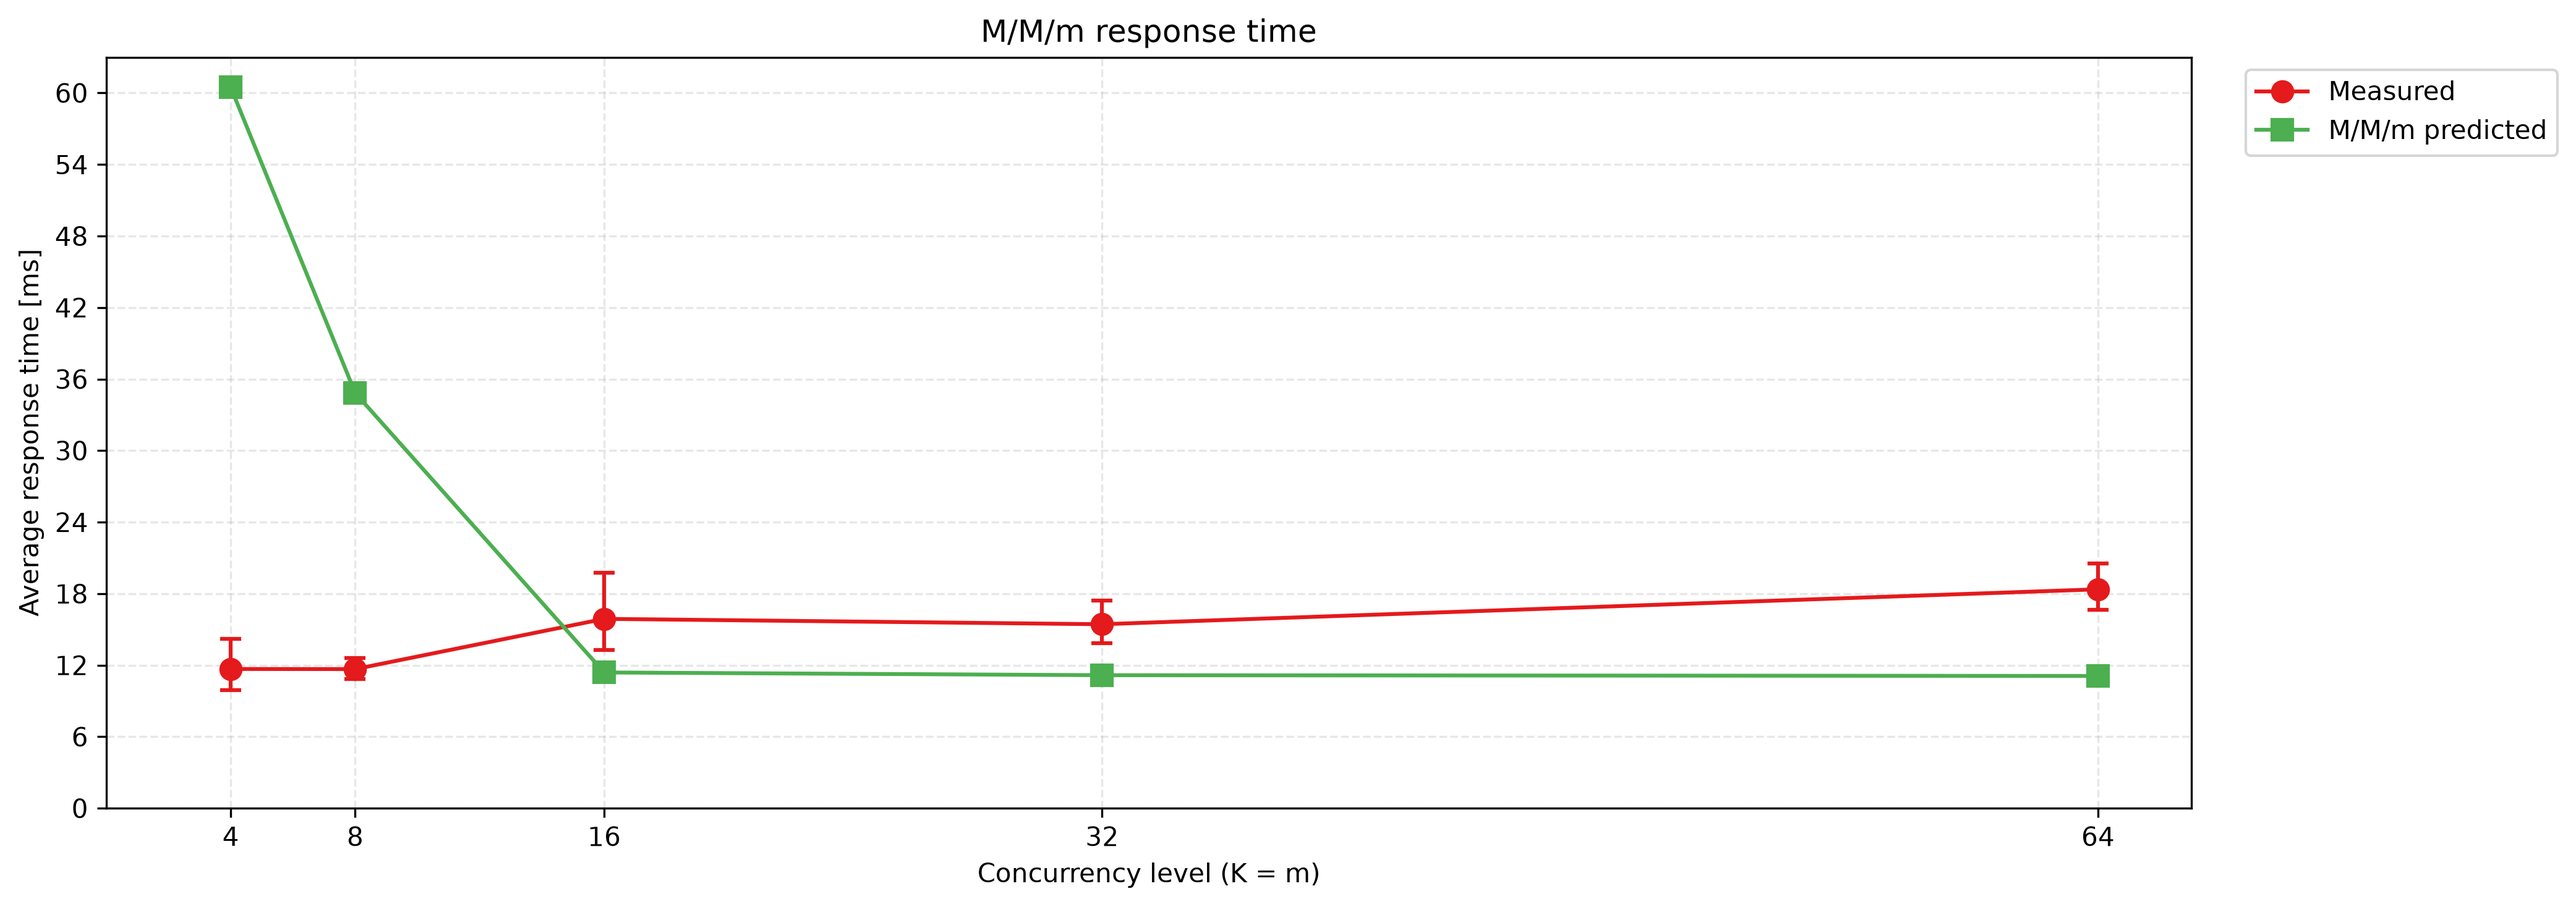
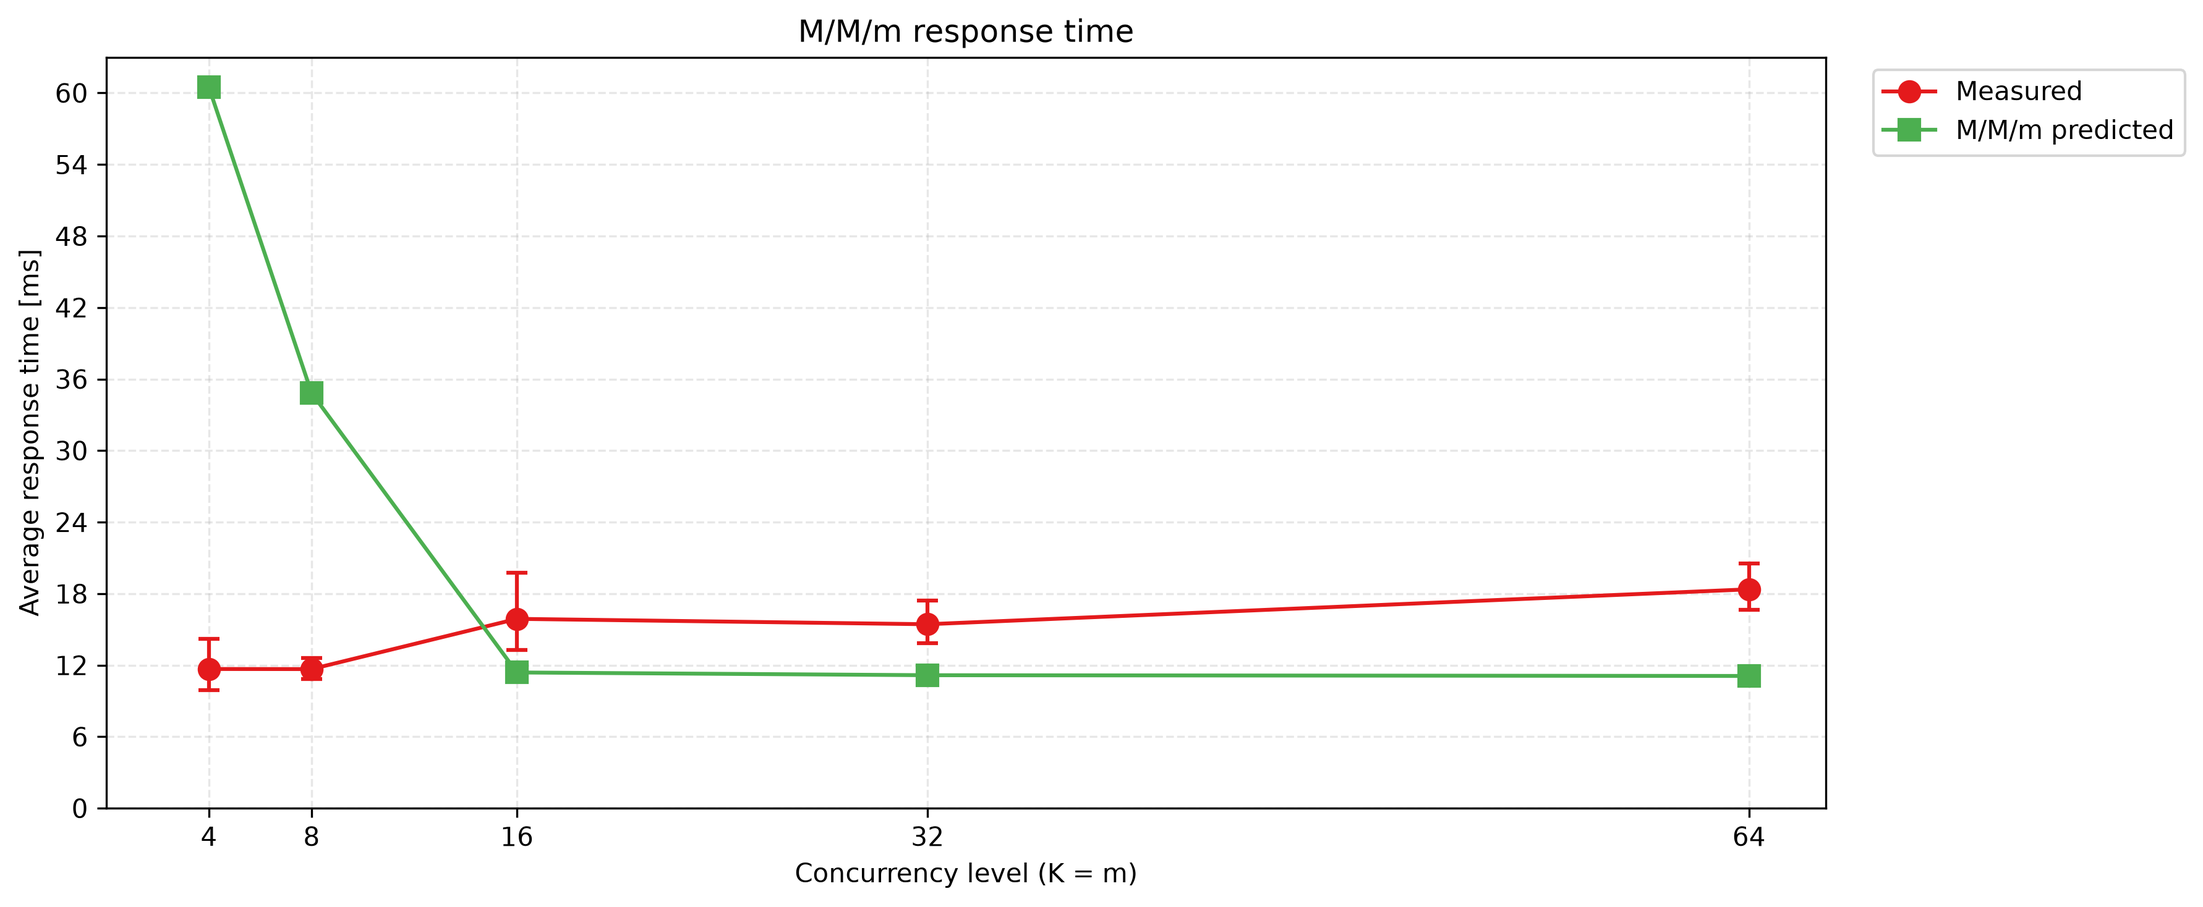
adjust response time plot

diff --git a/plot/exp3/mmm-responsetime.py b/plot/exp3/mmm-responsetime.py
@@ -10,6 +10,7 @@ sys.path.insert(0, os.path.join(os.path.dirname(__file__), ".."))
 from config import (
     GREEN,  # pyright: ignore[reportAttributeAccessIssue]
     RED,  # pyright: ignore[reportAttributeAccessIssue]
+    figsize_single,  # pyright: ignore[reportAttributeAccessIssue]
     grid_style,  # pyright: ignore[reportAttributeAccessIssue]
     legend_pos,  # pyright: ignore[reportAttributeAccessIssue]
     load_csv,  # pyright: ignore[reportAttributeAccessIssue]
@@ -18,7 +19,6 @@ from config import (
 
 CC_LEVELS_PLOT = ["c4", "c8", "c16", "c32", "c64"]
 M_PLOT = [4, 8, 16, 32, 64]
-FIGSIZE = (14, 5)
 
 FACT = [math.factorial(n) for n in range(65)]
 
@@ -43,11 +43,7 @@ def throughput_per_run(data):
 def estimate_mu(size, dist):
     data_dir = data_dir_for_nocache("c1", size, dist)
     csvs = sorted(glob.glob(os.path.join(data_dir, "**/*.csv"), recursive=True))
-    csvs = [
-        f
-        for f in csvs
-        if "summary" not in os.path.basename(f) and "avg" not in os.path.basename(f)
-    ]
+    csvs = [f for f in csvs if "summary" not in f and "avg" not in f]
     if not csvs:
         return None
     runs = [load_csv(f) for f in csvs]
@@ -138,7 +134,7 @@ def main():
         # E[r] = 1/μ · (1 + q / (m·(1-ρ))) with λ = measured throughput at each K
         rt_mmm = [mmm_response_time(M_used[i], means[i], mu) * 1000 for i in range(n)]
 
-        fig, ax = plt.subplots(figsize=FIGSIZE)
+        fig, ax = plt.subplots(figsize=figsize_single)
 
         ax.plot(
             M_used,

diff --git a/plot/exp3/mmm-throughput.py b/plot/exp3/mmm-throughput.py
@@ -43,11 +43,7 @@ def throughput_per_run(data):
 def estimate_mu(size, dist):
     data_dir = data_dir_for_nocache("c1", size, dist)
     csvs = sorted(glob.glob(os.path.join(data_dir, "**/*.csv"), recursive=True))
-    csvs = [
-        f
-        for f in csvs
-        if "summary" not in os.path.basename(f) and "avg" not in os.path.basename(f)
-    ]
+    csvs = [f for f in csvs if "summary" not in f and "avg" not in f]
     if not csvs:
         return None
     runs = [load_csv(f) for f in csvs]
